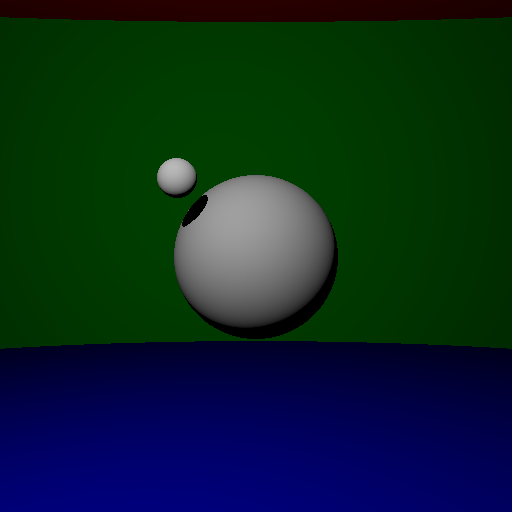
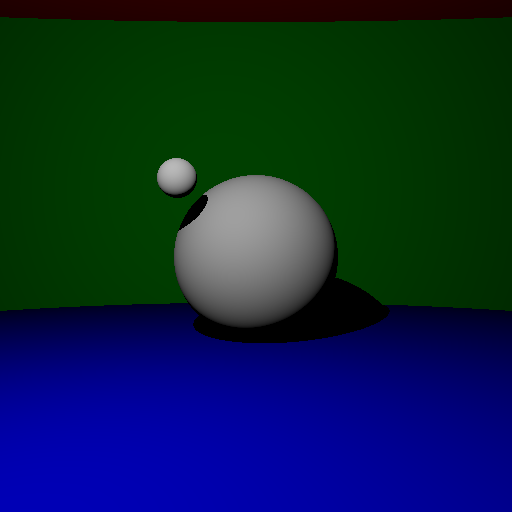
Fix step 4 computation

diff --git a/src/Scene.cpp b/src/Scene.cpp
@@ -15,21 +15,34 @@ Intersection Scene::intersection(Ray const& ray) const{
       }
     }
   }
+
   return final_intersect;
 }
 
-Vec Scene::get_color(Intersection const& inter, Light const& source) const{
+Vec Scene::get_color(Ray const& ray, Light const& source) const{
+  return get_color(ray, source, 5);
+}
+
+Vec Scene::get_color(Ray const& ray, Light const& source, int k) const{
+
+  Intersection inter = intersection(ray);
+
+  if(!inter.valid()){
+    return Vec(0, 0, 0);
+  }
+
   Vec vl = source.source() - inter.position();
 
-  Ray r_light = Ray(inter.position() + 0.01 * vl, vl.normalized());
+  Ray r_light = Ray(inter.position() + 0.001 * inter.normal(), vl.normalized());
 
-  double d2 = (inter.position() - source.source()).norm();
+  double d2 = (inter.position() - source.source()).norm_sq();
 
   for(long unsigned int i = 0; i < m_spheres.size(); ++i){
     Sphere const& s = *m_spheres[i];
     Intersection i_light = s.intersection(r_light);
-    if(i_light.valid() && d2 > (i_light.position() - inter.position()).norm_sq()){
-      return Vec(0, 0, 0);
+    if(i_light.valid()){
+      if(d2 > (i_light.position() - inter.position()).norm_sq())
+        return Vec(0, 0, 0);
     }
   }
   

diff --git a/src/main.cpp b/src/main.cpp
@@ -32,7 +32,7 @@ int main() {
 
   scene.add_new_sphere(Sphere(Vec(0, 1000, 0), 940, red));
   scene.add_new_sphere(Sphere(Vec(0, 0, -1000), 940, green));
-  scene.add_new_sphere(Sphere(Vec(0, -1000, 0), 980, blue));
+  scene.add_new_sphere(Sphere(Vec(0, -1000, 0), 990, blue));
   // This one should be invisible unless there is a bug (or a reflexion)
   scene.add_new_sphere(Sphere(Vec(0, 0, 1000), 940, purple));
 
@@ -48,18 +48,11 @@ int main() {
       Vec dir = Vec(x, y, z).normalized();
       Ray r(origin, dir);
 
-      Intersection intersect = scene.intersection(r);
-      if(intersect.valid()){
-        Vec color = scene.get_color(intersect, light);
+      Vec color = scene.get_color(r, light);
 
-        image[(i * W + j) * 3 + 0] = color.r();
-        image[(i * W + j) * 3 + 1] = color.g();
-        image[(i * W + j) * 3 + 2] = color.b();
-      } else {
-        image[(i * W + j) * 3 + 0] = 0;
-        image[(i * W + j) * 3 + 1] = 0;
-        image[(i * W + j) * 3 + 2] = 0;
-      }
+      image[(i * W + j) * 3 + 0] = color.r();
+      image[(i * W + j) * 3 + 1] = color.g();
+      image[(i * W + j) * 3 + 2] = color.b();
     }
   }
 

diff --git a/src/Intersection.hpp b/src/Intersection.hpp
@@ -15,7 +15,7 @@ class Intersection {
     Intersection():
       m_valid(false), m_position(), m_normal(), m_material() {};
     Intersection(Vec pos, Vec norm, Material mat):
-      m_valid(true), m_position(pos), m_normal(norm), m_material(mat) {};
+      m_valid(true), m_position(pos), m_normal(norm.normalized()), m_material(mat) {};
 
     bool valid() const{return m_valid;};
     Vec position() const{return m_position;};

diff --git a/src/Scene.hpp b/src/Scene.hpp
@@ -16,7 +16,8 @@ class Scene {
     Scene():
       m_spheres() {};
     Intersection intersection(Ray const& ray) const;
-    Vec get_color(Intersection const& inter, Light const& source) const;
+    Vec get_color(Ray const& ray, Light const& sourcr) const;
+    Vec get_color(Ray const& ray, Light const& source, int k) const;
 
     // add a sphere to the scene with a reference
     int add_sphere(Sphere const& s);

diff --git a/src/Ray.hpp b/src/Ray.hpp
@@ -12,7 +12,7 @@ class Ray{
 
   public:
     Ray(Vec origin, Vec dir):
-       m_origin(origin), m_direction(dir){};
+       m_origin(origin), m_direction(dir.normalized()){};
 
     Vec direction() const {return m_direction;};
     Vec origin() const {return m_origin;};
